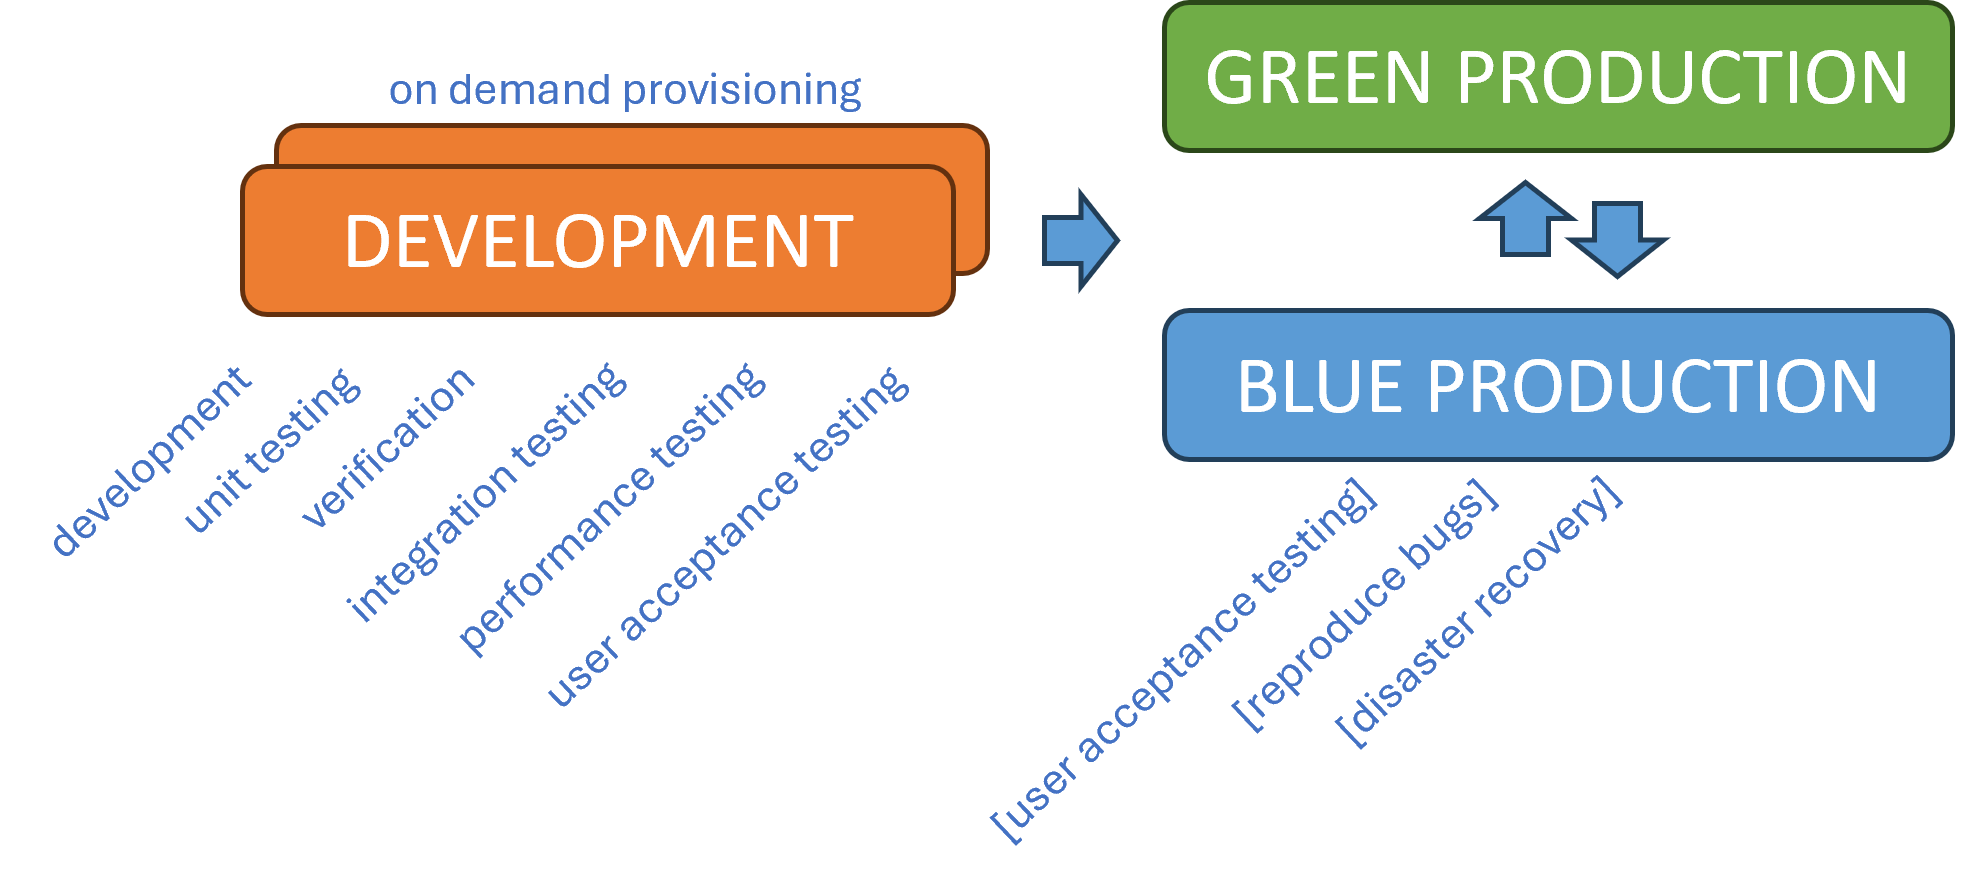
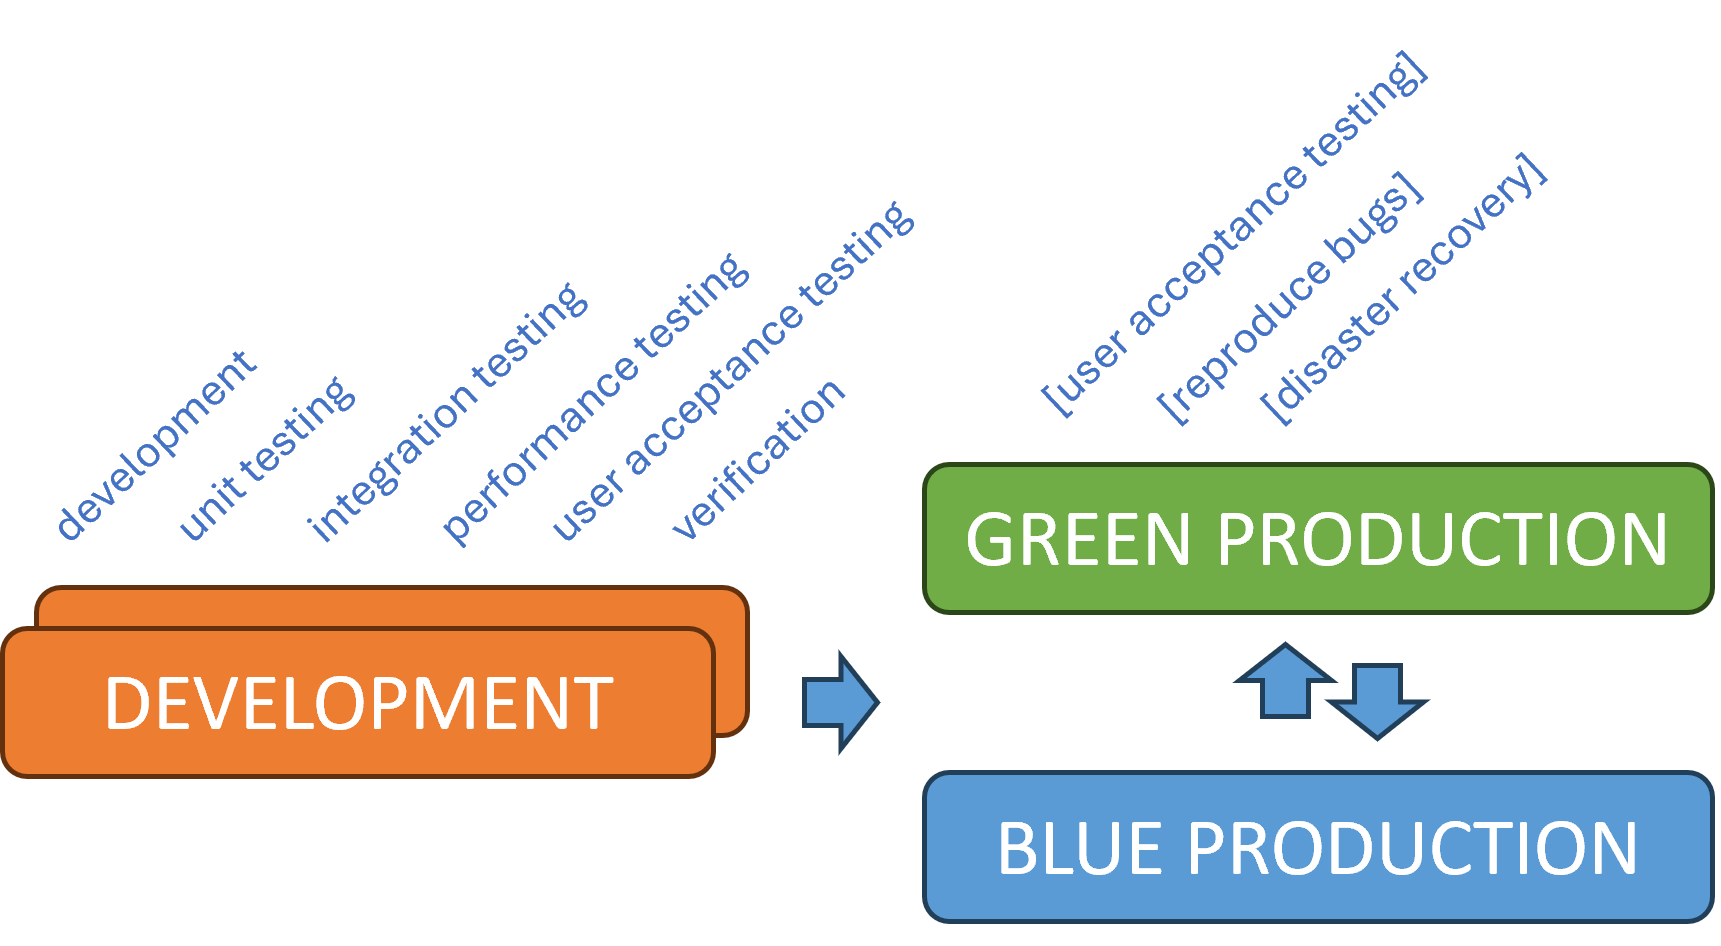
Final DRAFT to gather feedback

diff --git a/content/engineering-practices-sdlc-improvements.md b/content/engineering-practices-sdlc-improvements.md
@@ -6,35 +6,70 @@ Slug: engineering-practices-sdlc-improvements
 Author: Willy-Peter Schaub
 Summary: Looking for Insights and Feedback from other pioneers of continuous SDLC improvements.
 
-TBD.
+We want to "_Unite people, process, and products to empower and enable us to deliver continuous value to delighted end-users_", following [Donovan's definition of DevOps](https://www.donovanbrown.com/post/what-is-devops), and our aim is to "_Create an SDLC with consistent, standardized, secure, simple, and cost-effective processes, practices, and products_". We always try to improve our people (80%), processes (15%), and products (5%). In this post I will highlight one topic we are investigating and I hope you will join us and share your views on whether we are on track, or need some adjustment – **SDLC Flow**.
 
 ---
 
-# SDLC / TODAY
+# SDLC / FLOW / TODAY
 
-> ![<SAMPLE PIC>](../images/engineering-practices-sdlc-improvements-1.png) 
+> ![Today's SDLC](../images/engineering-practices-sdlc-improvements-1.png) 
 
-TBD.
+As illustrated, our current software development lifecycle (SDLC) flow involves four main environments – sometimes fewer, sometimes more, but this is the usual pattern. Development, unit testing, and verification are performed in the **development** environment, integration testing, performance testing, and user acceptance testing are conducted in the **system test** environment, additional user acceptance testing and ad-hoc bug analysis are carried out in **Staging**, and we are all familiar with what happens in **Production**.  
+
+### Advantages
+
+- Clear separation of duties.
+- Capacity to work on and deliver a lot of value (super tankers).
+
+### Disadvantages
+
+- Multiple environments that need careful operational attention.
+- Multiple environments that produce carbon emissions.
+- Multiple environments that can diverge from each other in terms of data, setup, 3rd party software, for example .NET, and our solution artifacts.
+- Multiple environments that increase **complexity** and **total cost of ownership**.
 
 ---
 
-# SDLC / FUTURE
+# SDLC / FLOW / FUTURE
 
-> ![<SAMPLE PIC>](../images/engineering-practices-sdlc-improvements-2.png) 
+> ![SDLC of the future](../images/engineering-practices-sdlc-improvements-2.png) 
 
-TBD.
+We want to move as much of our quality and security scans to the left as we can, adopt a mindset of continuous delivery and release on demand, and decrease the number of environments. We want to gradually show features in a new (green) version, while keeping the live production (blue) version. That way we can switch from green to blue and switch back if needed.  
+
+Development, testing, integration testing, performance testing, user acceptance testing, and verifications moves to the left and all activities are run continuously. While the new (green) version is not switched to production, [optional] user acceptance testing and bug analysis can be done. The blue/green environments also create a new possibility to use active-active and passive-active disaster recovery.
+
+A minor detail in the visual above, is that we could have multiple development environments, which we would provision on-demand and delete as needed.
+
+Another topic that is relevant is resolving problems - with this simpler model, we also prefer to fix-forward, not roll-back by default.  
+
+### Advantages
+
+- Focus on delivering value continuously (small changes, aka speed boats).
+- Giving business the power to choose when their features are launched.
+- Fewer environments to maintain and smaller environmental impact.
+- Fewer environments enables lower cost of ownership.
+
+### Disadvantages
+
+- Automation, automation, automation - which I personally see as an advantage, not disadvantage.
+- Some hefty prerequisites, as below.
 
 ### Prerequisites
 
-- X
-- X
-- X
+- **Continuous delivery** of value - think nimble speed boats not super tankers - and **release on demand**. Requires a culture (PEOPLE) mindset change. 
+- Welcome **feature flags**!
+- **Shift-left** and **QUALITY** mindset. 
+- **Consistency**, **standardization**, and **simplicity** to enable automation.
+- **Automated** unit, user interface, integration, and regression testing.
+- **Automated** (self-service) provisioning of architecture, infrastructure, and CI/CD blueprints.
 
 ---
 
 # Conclusion
 
-What have you learned in your SDLC transformations and improvements? Let us have a discussion and please share your insights in the comments below. 
+How has your SDLC changed and improved over time? Are we making the wrong choices or are we on the right path to continuously enhance our SDLC?
+
+Let us start a conversation and please post your thoughts in the comments below. 
 
 ---
 
